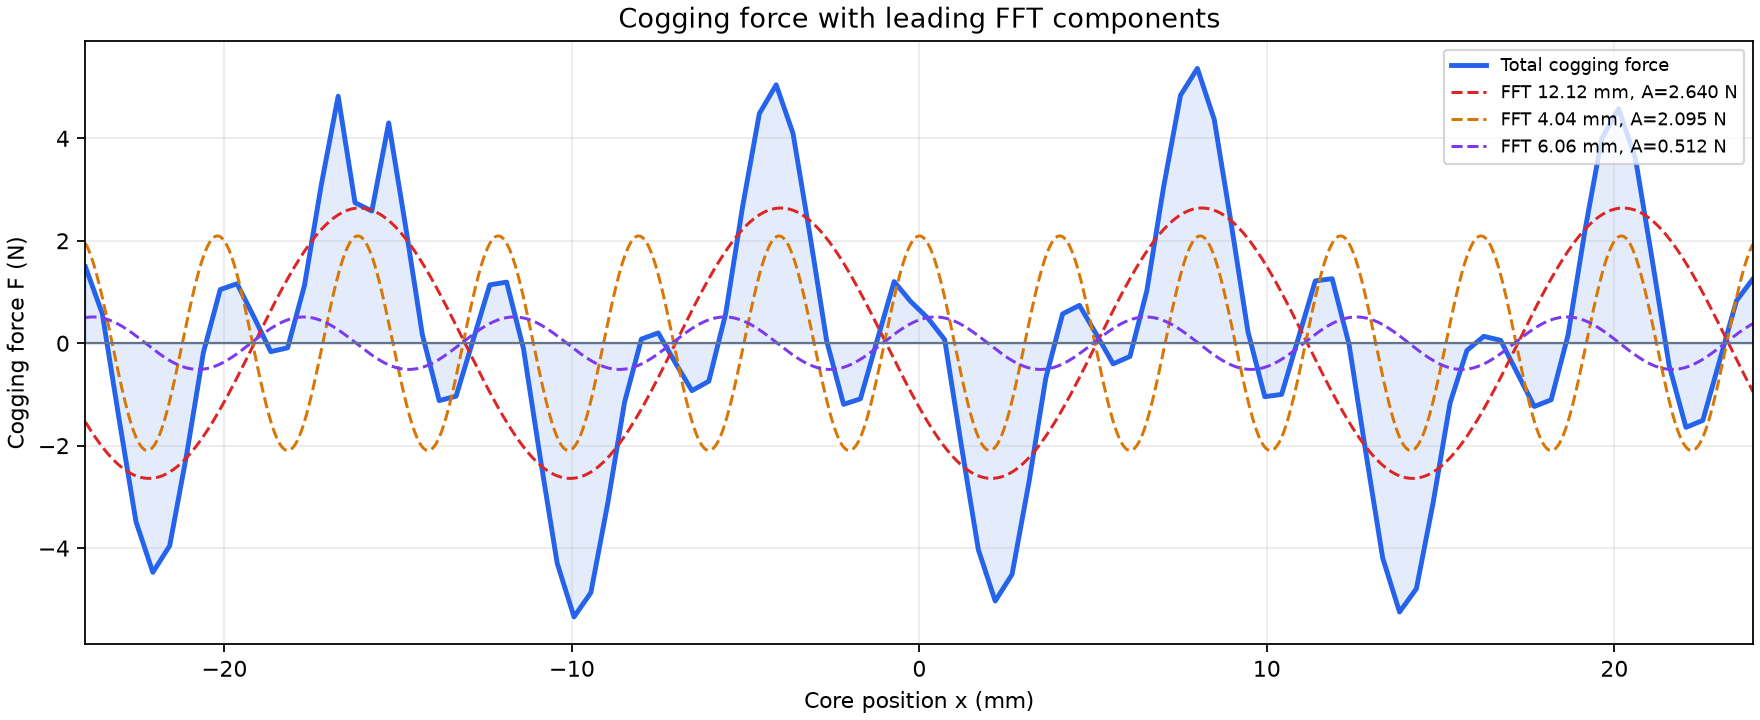
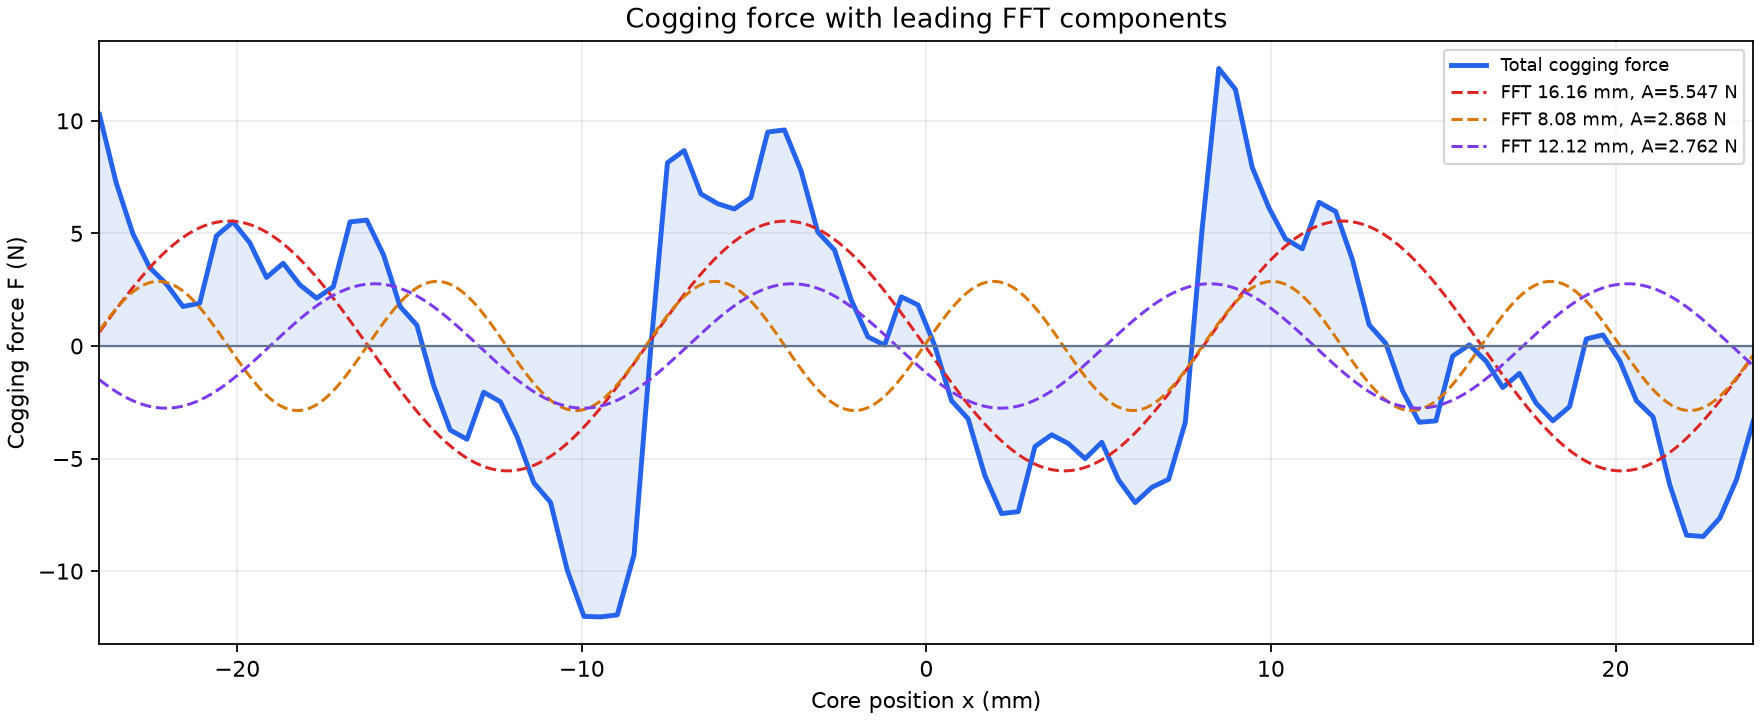
fix: smooth cogging force differentiation

diff --git a/halbach_field_n52.html b/halbach_field_n52.html
@@ -45,10 +45,10 @@
     <div class="note"><span class="key">⭕</span> 表示磁化方向出屏，主磁铁为 +Z，N 极朝上。</div>
     <div class="note"><span class="key">❌</span> 表示磁化方向入屏，主磁铁为 -Z，S 极朝上。</div>
     <div class="note">侧片方向：N 极朝向相邻的 N 极朝上的主磁铁，接缝序列为 -Y、+Y、-Y。</div>
-    <div class="note">6:6 为 24 mm 磁极对内的 +Z、-Y、-Z、+Y 四段基础 Halbach。独立的周期齿槽力估算采用 DXF 铁芯轮廓并连续叠厚积分：零斜极为 1.726 N 峰峰值，14.04° 为约 0.193 N，26.565° 为理想线性周期模型约 0.0010 N。它优先提升单侧磁通。</div>
+    <div class="note">6:6 为 24 mm 磁极对内的 +Z、-Y、-Z、+Y 四段基础 Halbach。齿槽力曲线采用有限五组阵列、DXF 铁芯轮廓与 16 mm 连续叠厚积分，在 -24 mm 至 +24 mm 内以 100 个位置点计算。曲线和 FFT 含有限阵列端部效应，适合该实际行程内的方案比较。</div>
     <div class="note"><span class="key">斜极取舍</span>：14.04° 的磁场基波系数约 0.955，适合推力优先；26.565° 的系数约 0.827，适合齿槽力优先。实际残余力由 B-H 曲线、端部磁通、加工与装配误差决定。</div>
     <div class="note">色图由二维磁矢势方程求解：DXF 闭合轮廓在网格内赋予 35W300 的线性 μr≈4000，气隙为 1 mm，磁铁厚度为 3 mm。铁芯绕其中心旋转 180°，齿顶位于磁铁顶面上方 1 mm。求解域随五组磁铁阵列扩展，四周采用远离模型的固定磁矢势边界；铁芯位于画面中心，左右侧磁铁单元数相同，所有磁铁块均绘制轮廓。</div>
-    <div class="note">每种磁铁排布均提供 200 帧动画，展示铁芯按 -24 mm、+24 mm、-24 mm 的顺序往复运动。曲线使用 100 个单程位置点计算。白色箭头表示计算得到的齿槽力方向，箭头长度随力值绝对值变化，箭头上方显示当前位置与瞬时齿槽力。动画下方曲线给出齿槽力 F 随位置 x 的变化。</div>
+    <div class="note">每种磁铁排布均提供 200 帧动画，展示铁芯按 -24 mm、+24 mm、-24 mm 的顺序往复运动。曲线使用 100 个单程位置点计算。磁铁边界在每个 0.5 mm 网格单元内以 8 点体积分数平均；齿槽力采用 9 点三阶局部多项式共能量导数，抑制单元级能量残差形成的伪尖峰。白色箭头表示计算得到的齿槽力方向，箭头长度随力值绝对值变化，箭头上方显示当前位置与瞬时齿槽力。</div>
     <div class="note"><span class="key">SVPWM Δ 接 FOC 推力模型</span>：三齿三相集中绕组，每相 266 匝、0.4 mm 线径、有效叠厚 16 mm。Iq=4 A 定义为 Δ 每个绕组支路的基波 q 轴峰值电流，对应线电流峰值约 6.93 A。SVPWM 注入的是零序电压以扩展调制范围；支路电流采用平衡基波，避免将三次谐波环流计入有效推力。磁铁边界在每个 0.5 mm 网格单元内使用 8 点体积分数平均，避免边界跨单元跳变被磁链微分放大。推力由各齿气隙磁链的位置导数与瞬时相电流相乘计算，未叠加齿槽力。</div>
   </div>
 </main>
@@ -196,7 +196,7 @@ const forceCurve = document.querySelector('#forceCurve');
   const thrustCurve = document.querySelector('#thrustCurve');
 const mapLabel = document.querySelector('#mapLabel');
 const motionStatus = document.querySelector('#motionStatus');
-const animationRevision = 'roundtrip-24-v1-svpwm-delta-subcell-v1';
+const animationRevision = 'roundtrip-24-v1-subcell-cogging-v1';
 for (const button of document.querySelectorAll('.mapButton')) {
   button.onclick = () => {
     const map = fieldMaps[button.dataset.map];

diff --git a/cogging_fdm.py b/cogging_fdm.py
@@ -4,6 +4,7 @@ import sys
 import numpy as np
 from scipy.sparse import lil_matrix
 from scipy.sparse.linalg import splu
+from scipy.signal import savgol_filter
 
 # Linear 2D magnetic-vector-potential approximation.
 # y is the travel direction and z points from the stator toward the magnets.
@@ -17,6 +18,8 @@ PERIOD = 48.0
 GAP = 1.0
 H = 0.5
 MAGNET_SUBCELL_SAMPLES = 8
+COENERGY_SMOOTH_WINDOW = 9
+COENERGY_SMOOTH_ORDER = 3
 COIL_TURNS = 266
 ACTIVE_STACK_M = 16e-3
 IQ_PEAK_A = 4.0
@@ -286,7 +289,18 @@ if ANIMATE:
             slice_linkages.append(tooth_flux_linkages(slice_bz))
         energies.append(float(np.mean(slice_energies)) * 16e-3)
         phase_flux_linkages.append(np.mean(slice_linkages, axis=0))
-    force_samples = -np.gradient(np.asarray(energies), sample_positions * 1e-3)
+    sample_step_m = (sample_positions[1] - sample_positions[0]) * 1e-3
+    # Differentiate a local polynomial fit to coenergy rather than raw cell-level
+    # energy samples. This preserves the resolved 4 mm cogging content while
+    # rejecting residual sub-cell boundary noise before it becomes a force spike.
+    force_samples = -savgol_filter(
+        np.asarray(energies),
+        COENERGY_SMOOTH_WINDOW,
+        COENERGY_SMOOTH_ORDER,
+        deriv=1,
+        delta=sample_step_m,
+        mode="interp",
+    )
     phase_flux_linkages = np.asarray(phase_flux_linkages)
     electrical_angle = 2 * np.pi * sample_positions[:, None] / 24.0
     # Identify each phase d-axis from its computed fundamental flux linkage.

diff --git a/.monkeycode/specs/foc-thrust-curve/design.md b/.monkeycode/specs/foc-thrust-curve/design.md
@@ -6,4 +6,6 @@
 
 磁铁源在每个 `0.5 mm` 网格单元内使用 8 点体积分数平均，磁铁边界随位置连续平移，减少二值网格赋值在磁链微分后形成的推力尖峰。该模型保留二维线性磁路、默认相序和有限阵列端部效应，适合相同结构间的推力与推力纹波比较。绕组实际相序、绕向、端部绕组与 B-H 非线性会影响实机绝对值。
 
+齿槽力由位置共能量的一阶导数计算。共能量导数采用 9 点三阶 Savitzky-Golay 局部多项式，避免单元级能量残差在直接差分后形成窄尖峰；其窗口约为 4.36 mm，保留已解析的主要齿槽空间谐波。
+
 推力曲线去除平均值后执行实数 FFT，选择幅值最高的三个非直流分量。分量通过解析余弦函数重建为 1000 个显示点，并以总推力均值为基线叠加显示，图例包含对应空间周期和幅值。
